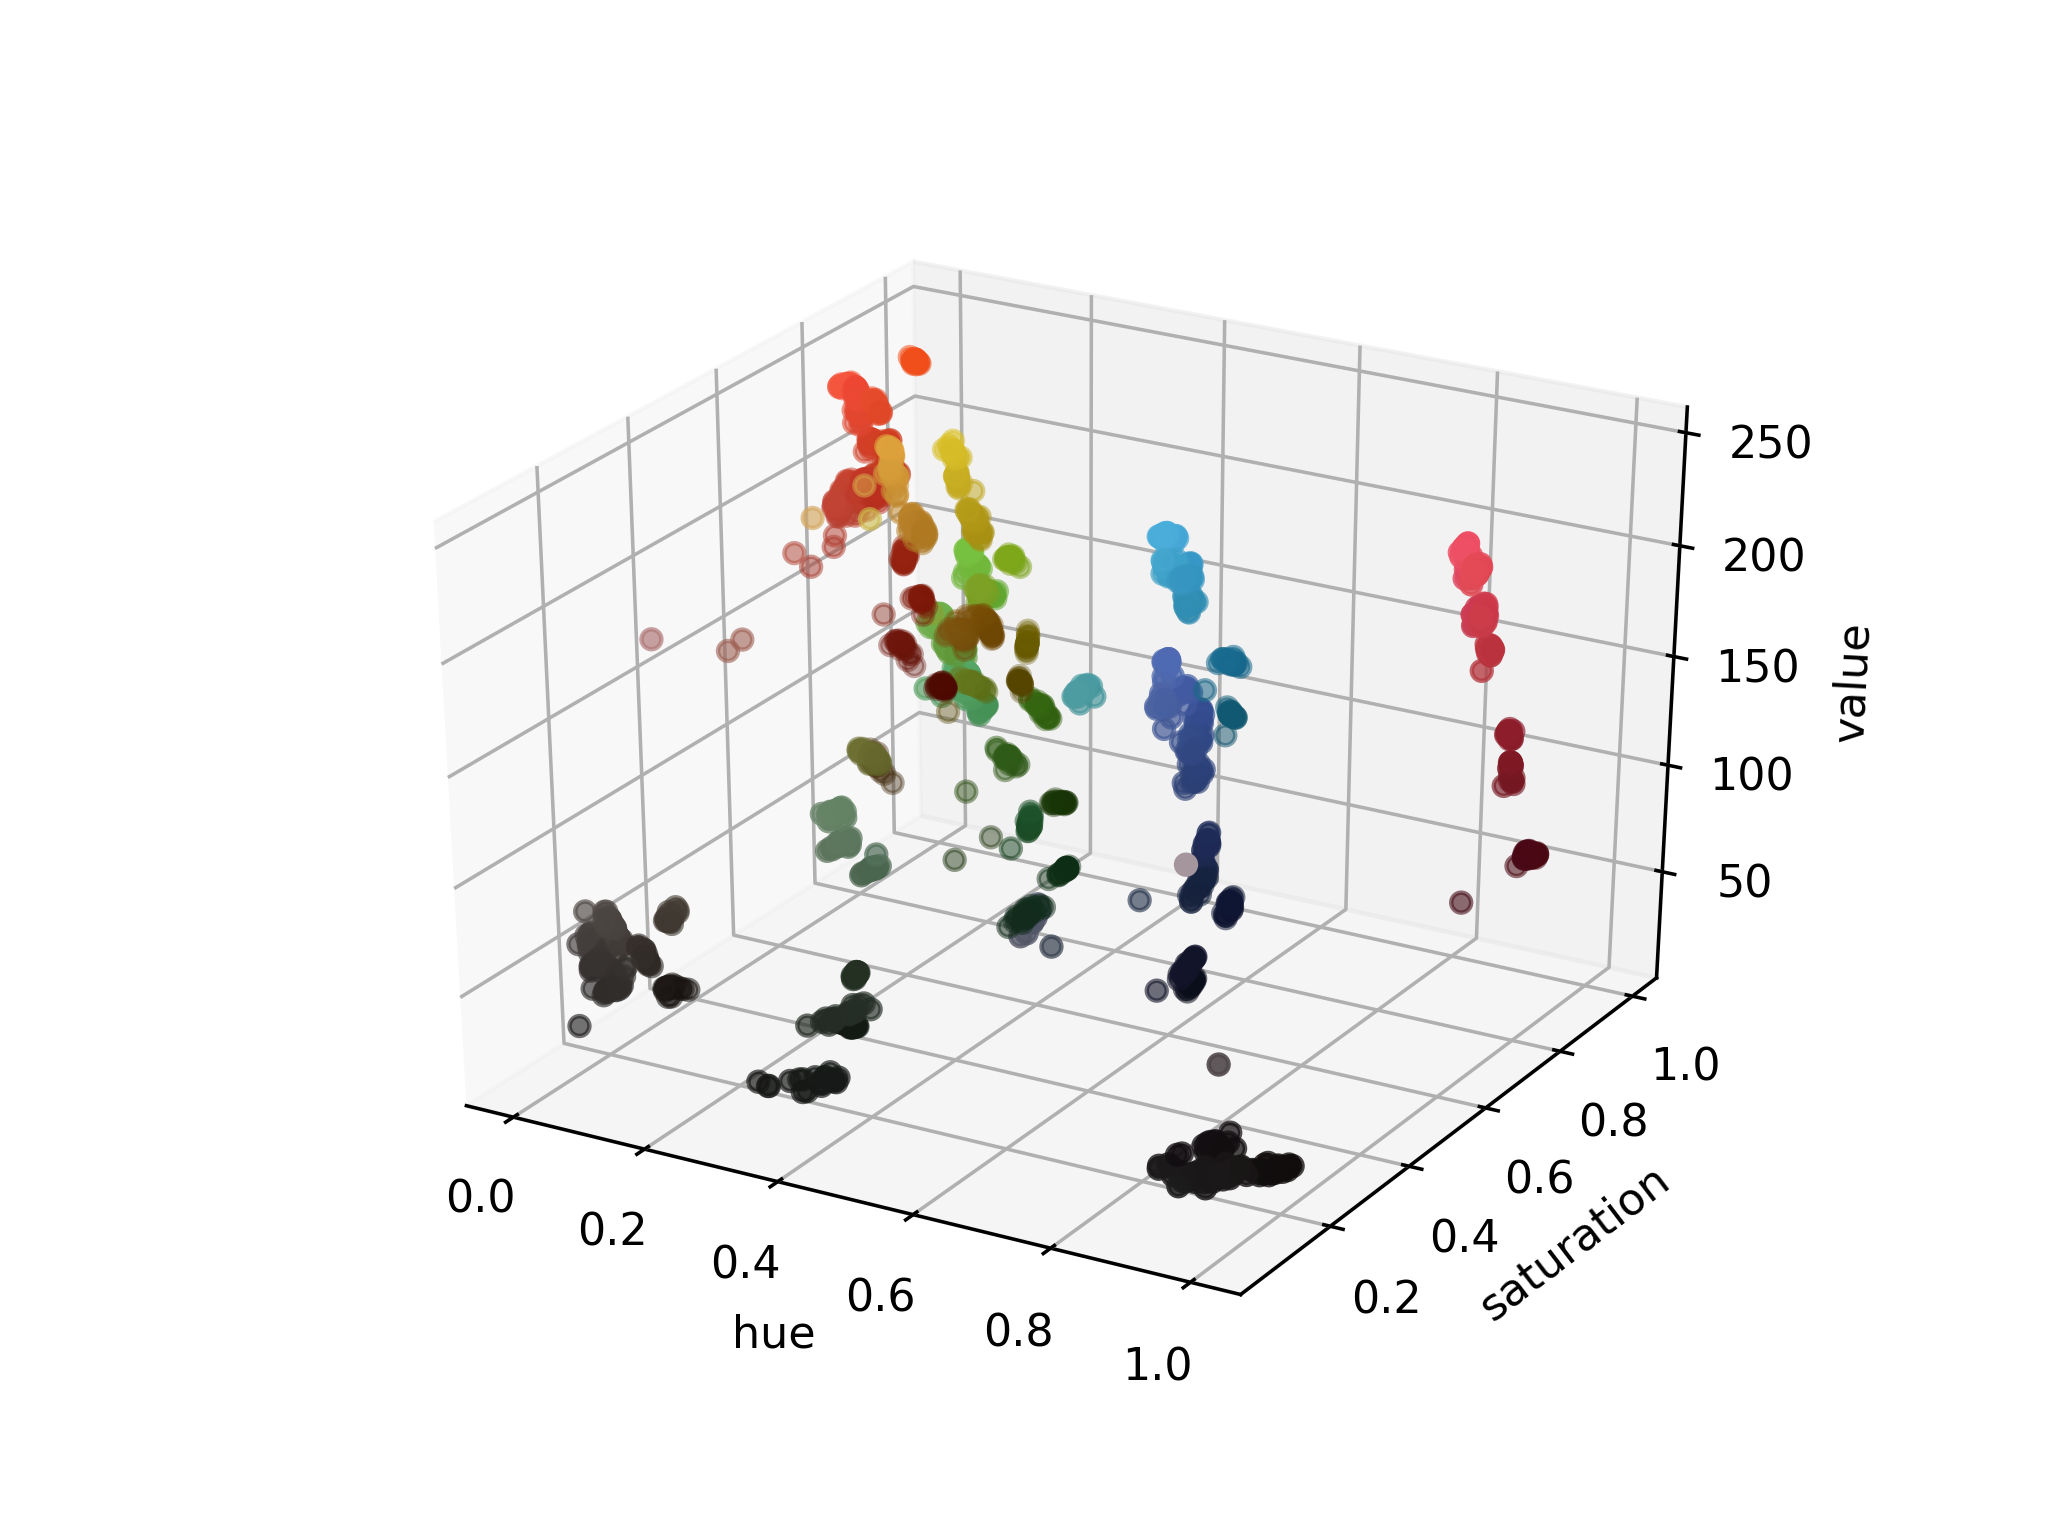
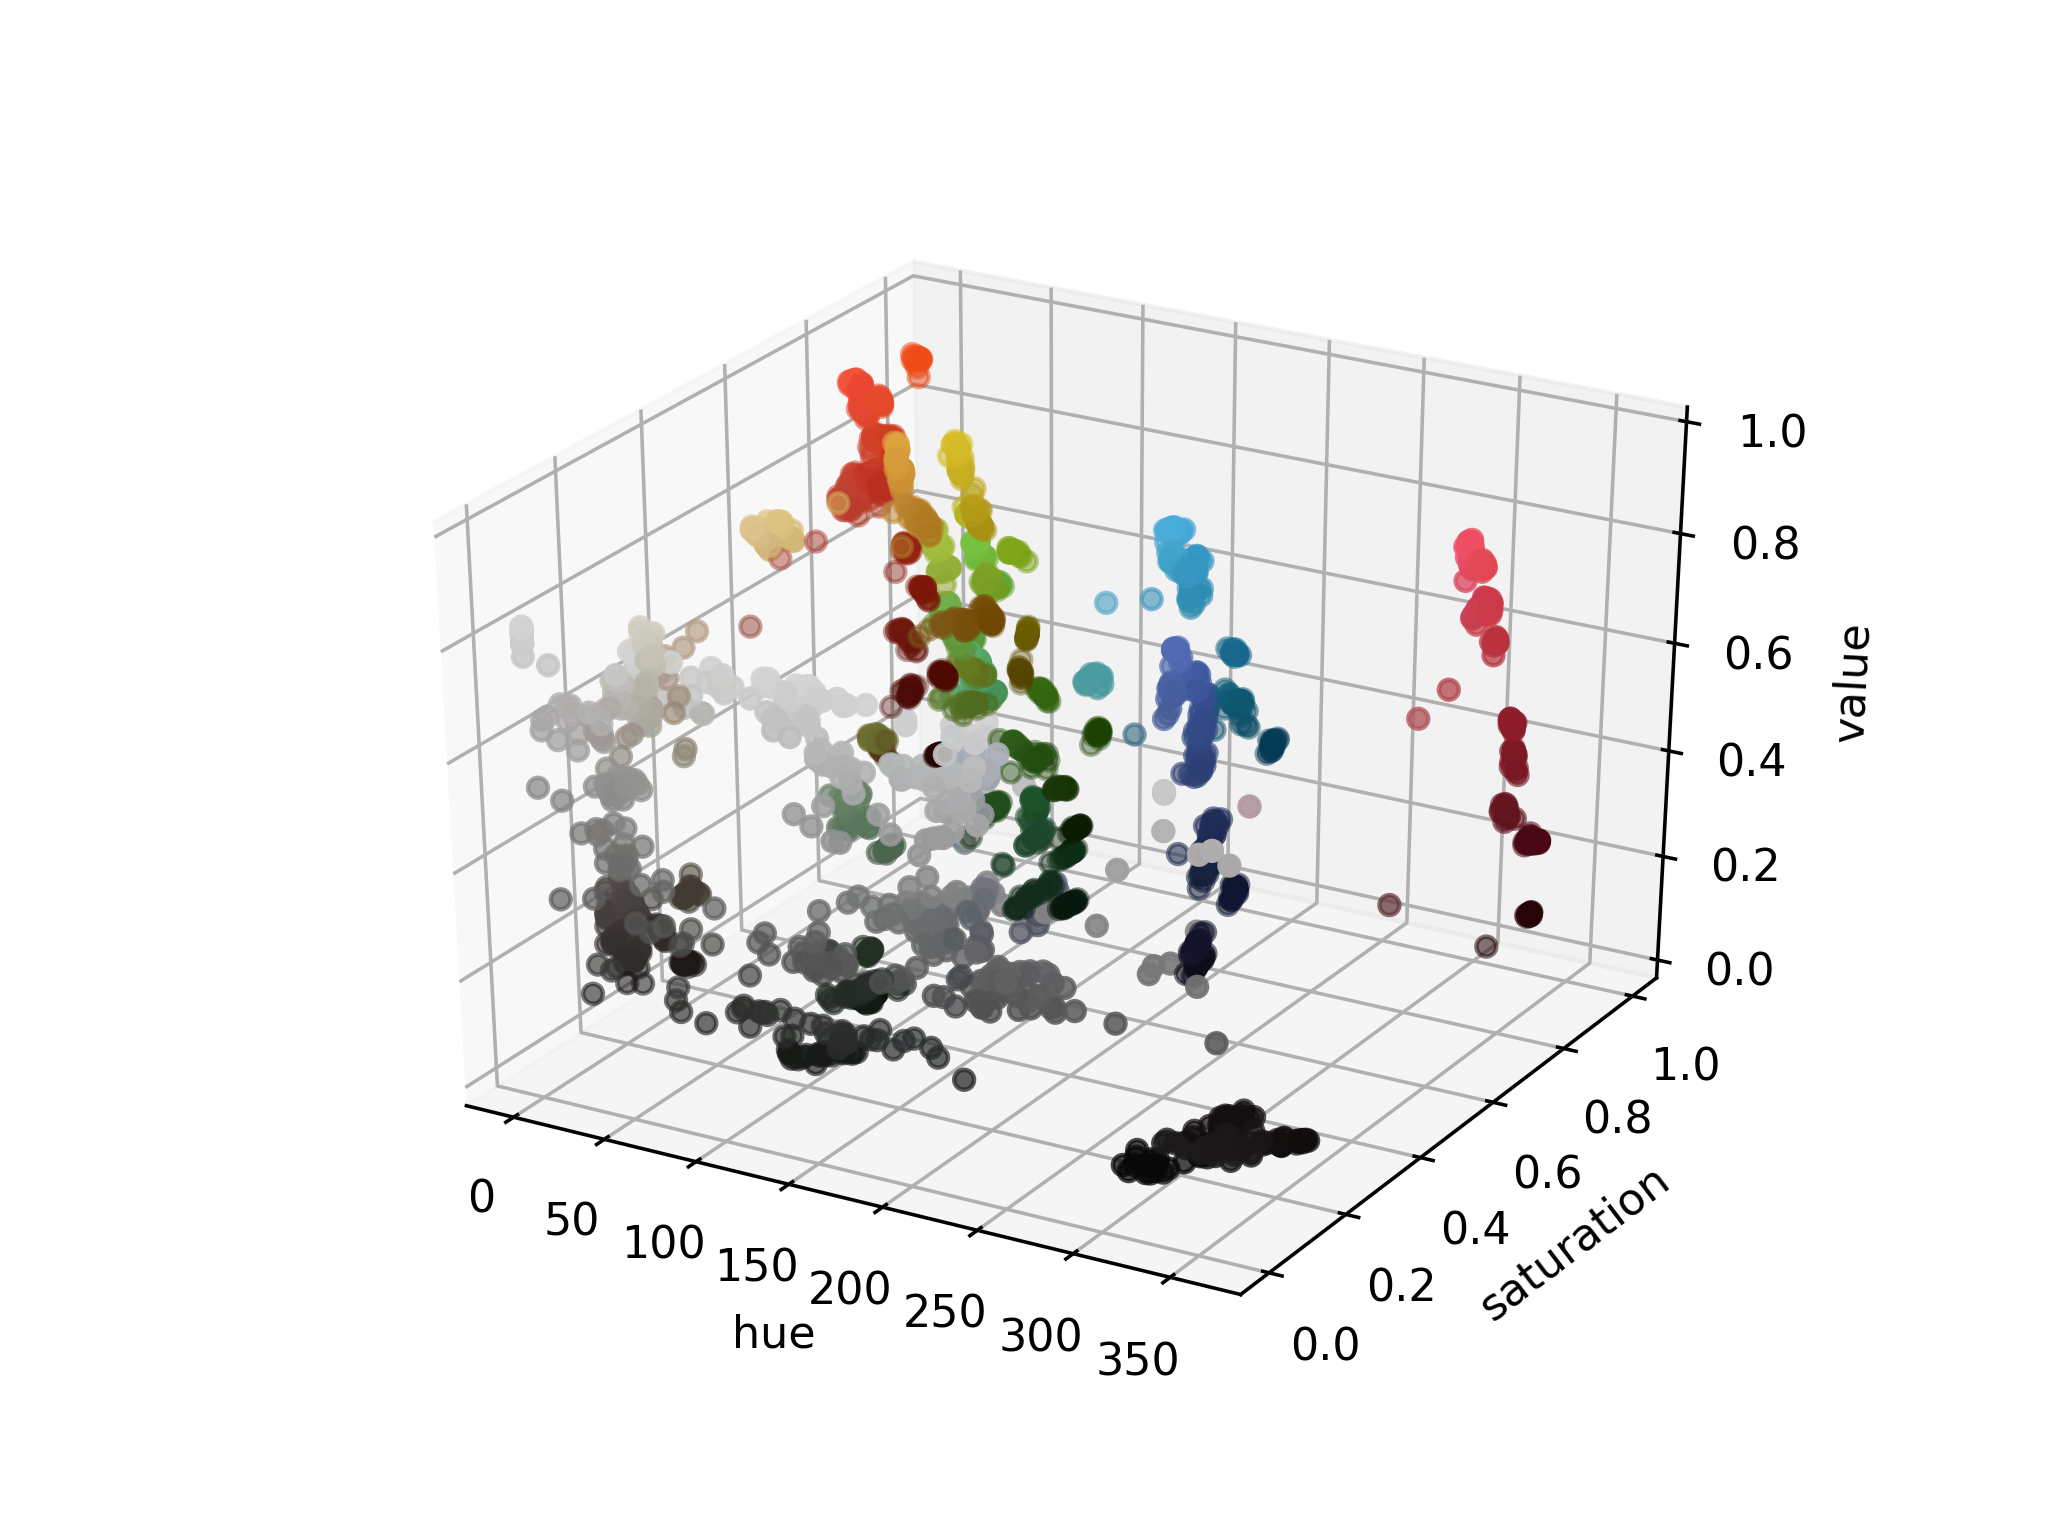
Add code to plot colors based on their label

diff --git a/homework2/plot.py b/homework2/plot.py
@@ -20,6 +20,16 @@ def read_data(input_file):
 with open('train.csv', 'r', encoding='utf-8') as csv_file:
     colors, labels = read_data(csv_file)
 
+color_map = {
+    "red": [1, 0, 0],
+    "green": [0, 1, 0],
+    "blue": [0, 0, 1],
+    "black": [0, 0, 0],
+    "white": [0.95, 0.95, 0.95],
+    "yellow": [1, 1, 0]
+}
+classes = [color_map[label] for label in labels]
+
 # After RGB colors have been read, convert colors to hsv and lab
 def rgb_to_hsv(color):
     hsv = convert_color(sRGBColor(*(color / 255)), HSVColor)
@@ -37,6 +47,7 @@ reds, greens, blues = colors[:,0], colors[:,1], colors[:,2]
 hues, saturations, values = hsv_colors[:,0], hsv_colors[:,1], hsv_colors[:,2]
 l, a, b = lab_colors[:,0], lab_colors[:,1], lab_colors[:,2]
 
+# First plot our rgb colors in 3d plot as colors
 figure = plt.figure()
 ax = figure.add_subplot(projection='3d')
 ax.scatter3D(reds, greens, blues, color=colors / 255)
@@ -44,6 +55,15 @@ ax.set_xlabel('red')
 ax.set_ylabel('green')
 ax.set_zlabel('blue')
 plt.savefig('rgb.png', dpi=320)
+
+# Then plot their labels
+figure = plt.figure()
+ax = figure.add_subplot(projection='3d')
+ax.scatter3D(reds, greens, blues, color=classes)
+ax.set_xlabel('red')
+ax.set_ylabel('green')
+ax.set_zlabel('blue')
+plt.savefig('rgb_labels.png', dpi=320)
 
 figure = plt.figure()
 ax = figure.add_subplot(projection='3d')
@@ -55,8 +75,24 @@ plt.savefig('hsv.png', dpi=320)
 
 figure = plt.figure()
 ax = figure.add_subplot(projection='3d')
+ax.scatter3D(hues, saturations, values, color=classes)
+ax.set_xlabel('hue')
+ax.set_ylabel('saturation')
+ax.set_zlabel('value')
+plt.savefig('hsv_labels.png', dpi=320)
+
+figure = plt.figure()
+ax = figure.add_subplot(projection='3d')
 ax.scatter3D(l, a, b, color=colors / 255)
 ax.set_xlabel('lightness')
 ax.set_ylabel('a')
 ax.set_zlabel('b')
 plt.savefig('lab.png', dpi=320)
+
+figure = plt.figure()
+ax = figure.add_subplot(projection='3d')
+ax.scatter3D(l, a, b, color=classes)
+ax.set_xlabel('lightness')
+ax.set_ylabel('a')
+ax.set_zlabel('b')
+plt.savefig('lab_labels.png', dpi=320)
